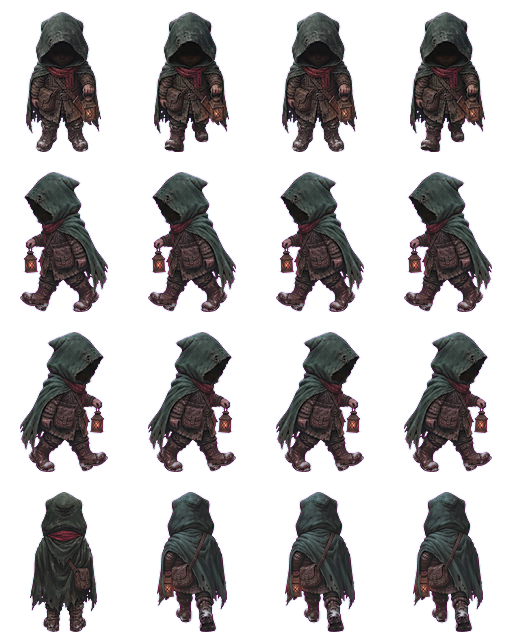
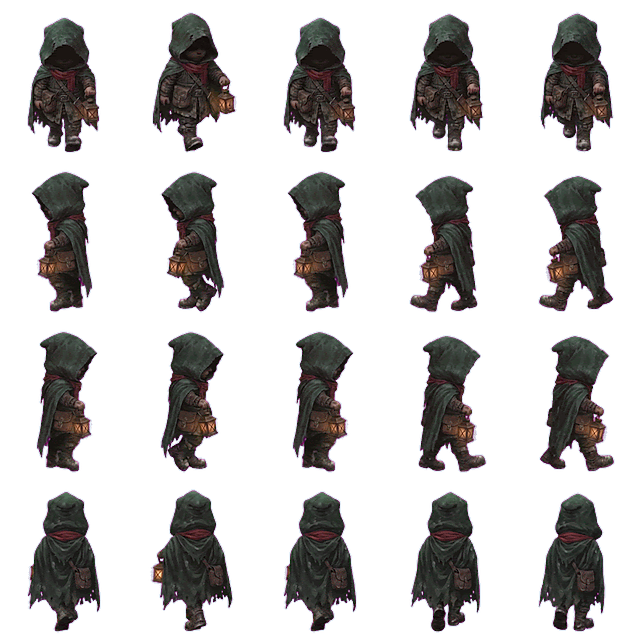
Rebuild player sheet from the Gemini turnaround animation
- All four directions now come from one animation, so the character looks
  the same from every side; 5 columns per row (idle + 4-step walk)
- Left uses the side-on stride frames; right mirrors them
- Per-frame lantern positions re-detected for the new frames

Claude-Session: https://claude.ai/code/session_01HUi3HoYtCjfdjaU6x17YXp

diff --git a/index.html b/index.html
@@ -1759,10 +1759,10 @@ const ART={
     fgPine:    {files:['fg_pine.png'], w:320, h:520, ox:160,oy:515},               // dark foreground silhouette
   },
   // Player sprite sheet: rows = down, left, right, up; `frames` walk frames per row.
-  // Column 1 = standing (idle); columns 2–4 = walk cycle. `lantern` = glow position per [row][column],
+  // Column 1 = standing (idle); columns 2–5 = walk cycle. `lantern` = glow position per [row][column],
   // in world units from the feet, so the light sits on the painted lantern in every frame.
-  player:{file:'player.png', fw:128, fh:160, frames:4, w:44, h:55, ox:22, oy:52,
-          lantern:[[[8.4, -13.4], [8.1, -13.4], [8.4, -13.4], [8.1, -13.4]], [[-11.7, -16.0], [-11.7, -16.0], [-11.7, -16.0], [-11.7, -16.0]], [[11.3, -16.0], [11.3, -16.0], [11.3, -16.0], [11.3, -16.0]], [[-8.3, -14.8], [-8.3, -14.8], [-8.3, -14.8], [-8.3, -14.8]]]},
+  player:{file:'player.png', fw:128, fh:160, frames:5, w:44, h:55, ox:22, oy:52,
+          lantern:[[[9.2, -12.4], [11.0, -16.2], [9.2, -12.4], [9.0, -13.8], [8.3, -14.0]], [[-6.2, -14.9], [-5.4, -15.2], [-6.2, -14.9], [-6.3, -13.2], [-6.6, -13.3]], [[6.2, -14.9], [5.4, -15.2], [6.2, -14.9], [6.0, -13.2], [6.6, -13.3]], [[-7.0, -17.0], [-11.7, -19.7], [-7.0, -17.0], [-7.0, -17.0], [-7.0, -17.0]]]},
   // Optional seamless ground textures (tile), one per area.
   ground:{hub:'', woods:'', hollow:'', reach:''}, groundScale:.5,
 };

diff --git a/src/content/00_art.js b/src/content/00_art.js
@@ -42,10 +42,10 @@ const ART={
     fgPine:    {files:['fg_pine.png'], w:320, h:520, ox:160,oy:515},               // dark foreground silhouette
   },
   // Player sprite sheet: rows = down, left, right, up; `frames` walk frames per row.
-  // Column 1 = standing (idle); columns 2–4 = walk cycle. `lantern` = glow position per [row][column],
+  // Column 1 = standing (idle); columns 2–5 = walk cycle. `lantern` = glow position per [row][column],
   // in world units from the feet, so the light sits on the painted lantern in every frame.
-  player:{file:'player.png', fw:128, fh:160, frames:4, w:44, h:55, ox:22, oy:52,
-          lantern:[[[8.4, -13.4], [8.1, -13.4], [8.4, -13.4], [8.1, -13.4]], [[-11.7, -16.0], [-11.7, -16.0], [-11.7, -16.0], [-11.7, -16.0]], [[11.3, -16.0], [11.3, -16.0], [11.3, -16.0], [11.3, -16.0]], [[-8.3, -14.8], [-8.3, -14.8], [-8.3, -14.8], [-8.3, -14.8]]]},
+  player:{file:'player.png', fw:128, fh:160, frames:5, w:44, h:55, ox:22, oy:52,
+          lantern:[[[9.2, -12.4], [11.0, -16.2], [9.2, -12.4], [9.0, -13.8], [8.3, -14.0]], [[-6.2, -14.9], [-5.4, -15.2], [-6.2, -14.9], [-6.3, -13.2], [-6.6, -13.3]], [[6.2, -14.9], [5.4, -15.2], [6.2, -14.9], [6.0, -13.2], [6.6, -13.3]], [[-7.0, -17.0], [-11.7, -19.7], [-7.0, -17.0], [-7.0, -17.0], [-7.0, -17.0]]]},
   // Optional seamless ground textures (tile), one per area.
   ground:{hub:'', woods:'', hollow:'', reach:''}, groundScale:.5,
 };
